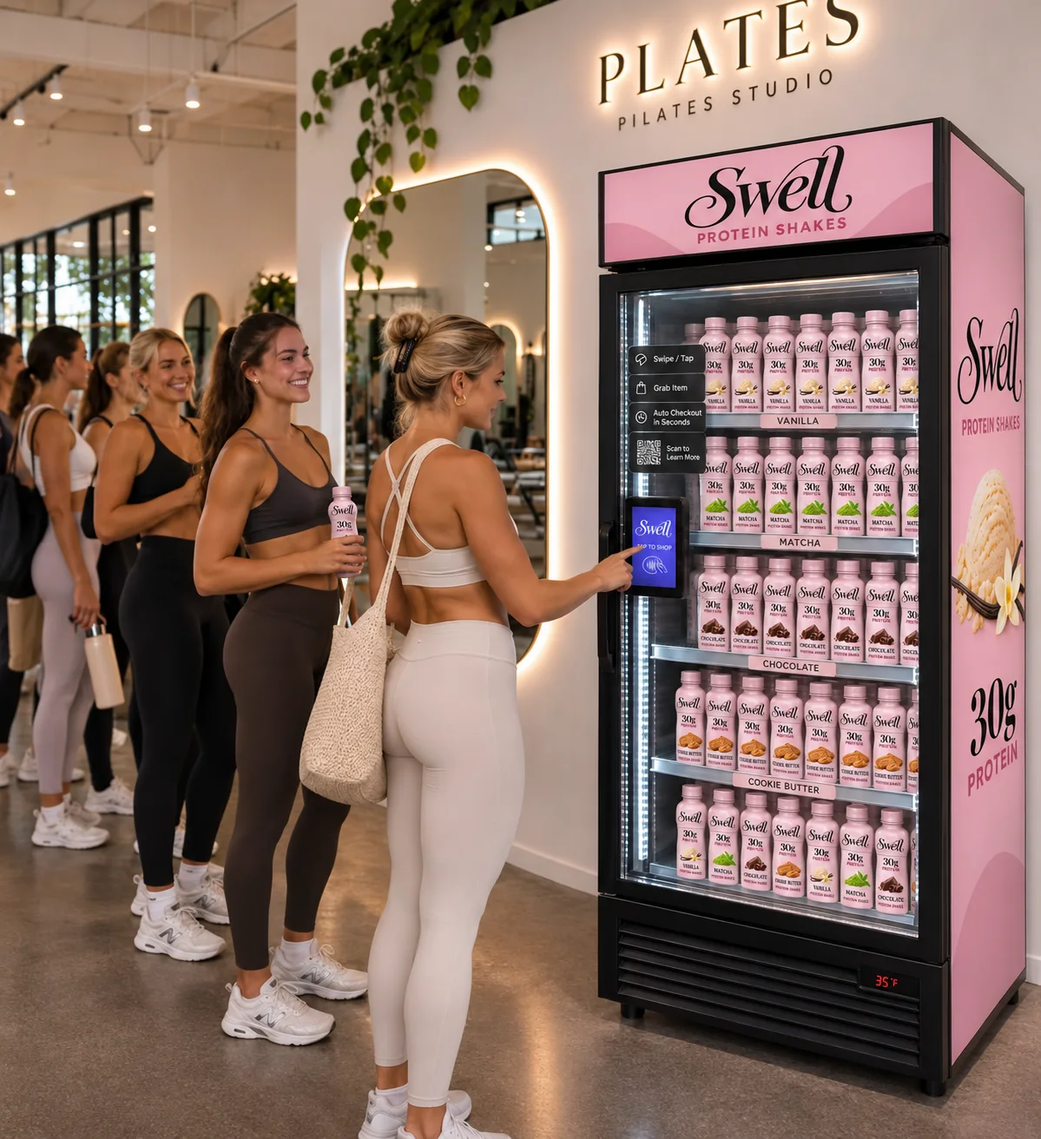
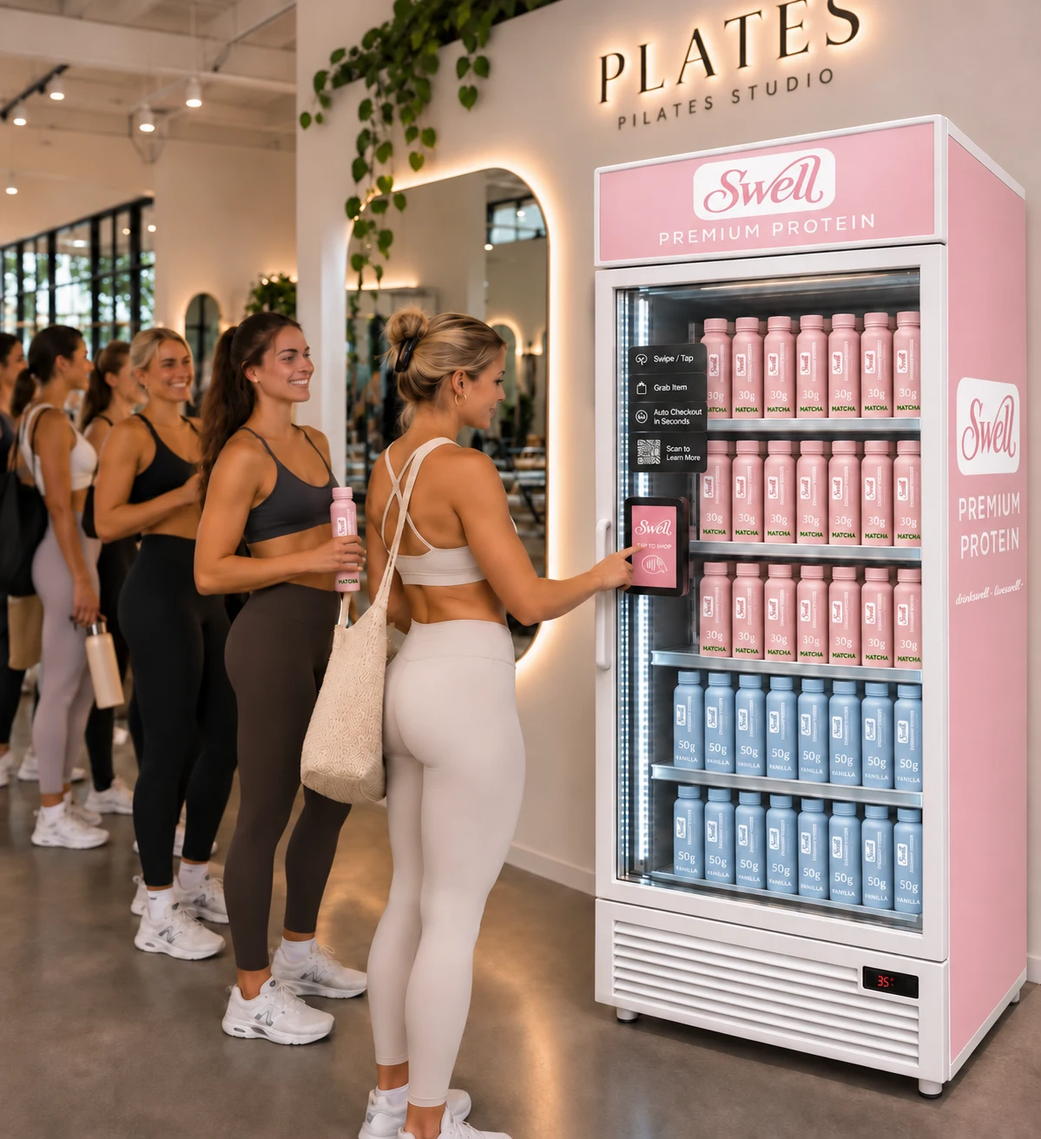
Refresh Swell blog photos and Pilates fridge artwork

diff --git a/blog.html b/blog.html
@@ -621,7 +621,7 @@ html.sheet-open, html.sheet-open body { overflow: hidden; }
 .mq-dup { display: contents; }
 .marquee:hover .mq-track, .marquee:focus-within .mq-track { animation-play-state: paused; }
 .mq-track .post { flex: 0 0 var(--cw); width: var(--cw); margin: 0; animation: none; align-self: start; }
-.mq-track .pimg { aspect-ratio: 4 / 5 !important; }
+.mq-track .pimg { aspect-ratio: 2 / 3; }
 @keyframes mq { to { transform: translateX(calc(-50% - var(--gap) / 2)); } }
 @media (max-width: 1100px) { .marquee { --cw: calc((100vw - 2 * var(--gap) - 32px) / 3); } }
 @media (max-width: 760px) { .marquee { --gap: 10px; --cw: calc((100vw - 32px - var(--gap)) / 2); } .mq-track { animation-duration: 110s; }
@@ -953,7 +953,7 @@ img[src$="logo.png"] { filter: brightness(0) invert(1) drop-shadow(0 1px 1px rgb
   <div class="sec-h feedh"><h2>From the feed</h2>
     <div class="filters" role="group" aria-label="Filter posts"><button type="button" class="press" aria-pressed="true" data-pfil="all">All</button><button type="button" class="press" aria-pressed="false" data-pfil="shakes">Shakes</button><button type="button" class="press" aria-pressed="false" data-pfil="icecream">Ice cream</button><button type="button" class="press" aria-pressed="false" data-pfil="creami">Creami</button></div></div>
   <p class="small" style="margin:-6px 0 18px"><span class="ph">Sample posts for layout. Replace with real posts tagged #drinkswell before launch.</span></p>
-  <div class="feed" id="feed"><article class="post" data-pf="shakes"><header class="ph-h"><span class="av" aria-hidden="true"><img src="img/posts/av_ugc_sw_dude_gym.webp" alt="" width="36" height="36" loading="lazy"></span><span class="pwho"><b>@sample.justonemoreset</b><small><svg viewBox="0 0 24 24" width="13" height="13" aria-hidden="true"><rect x="3" y="3" width="18" height="18" rx="5" fill="none" stroke="currentColor" stroke-width="2"/><circle cx="12" cy="12" r="4.2" fill="none" stroke="currentColor" stroke-width="2"/><circle cx="17.4" cy="6.6" r="1.3" fill="currentColor"/></svg> Instagram</small></span><span class="sample">Sample post</span></header><div class="pimg" style="aspect-ratio:4 / 5"><img src="img/posts/ugc_sw_dude_gym.webp" alt="Sample Instagram post: Post-lift, no production crew required. Chocolate Swell 50g and out." loading="lazy" width="720" height="900"></div><div class="pact"><button type="button" class="like press" aria-pressed="false" aria-label="Like this post"><svg viewBox="0 0 24 24" width="24" height="24" aria-hidden="true"><path d="M12 20.5s-7.5-4.4-7.5-10.1A4.3 4.3 0 0 1 12 7.6a4.3 4.3 0 0 1 7.5 2.8c0 5.7-7.5 10.1-7.5 10.1z" fill="var(--hf, none)" stroke="currentColor" stroke-width="2" stroke-linejoin="round"/></svg></button><button type="button" class="share press" aria-label="Share #drinkswell"><svg viewBox="0 0 24 24" width="22" height="22" aria-hidden="true"><path d="M12 15V3.5M7.5 8 12 3.5 16.5 8M5 13v6.5h14V13" fill="none" stroke="currentColor" stroke-width="2" stroke-linecap="round" stroke-linejoin="round"/></svg></button></div><p class="pcap"><b>@sample.justonemoreset</b> Post-lift, no production crew required. Chocolate Swell 50g and out. <span class="ht">@drinkswell #drinkswell #proteinshake</span></p></article><article class="post" data-pf="shakes"><header class="ph-h"><span class="av" aria-hidden="true"><img src="img/posts/av_ugc_sw_dude_campus.webp" alt="" width="36" height="36" loading="lazy"></span><span class="pwho"><b>@sample.campusbulk</b><small><svg viewBox="0 0 24 24" width="13" height="13" aria-hidden="true"><rect x="3" y="3" width="18" height="18" rx="5" fill="none" stroke="currentColor" stroke-width="2"/><circle cx="12" cy="12" r="4.2" fill="none" stroke="currentColor" stroke-width="2"/><circle cx="17.4" cy="6.6" r="1.3" fill="currentColor"/></svg> Instagram</small></span><span class="sample">Sample post</span></header><div class="pimg" style="aspect-ratio:4 / 5"><img src="img/posts/ugc_sw_dude_campus.webp" alt="Sample Instagram post: Two classes, one lab, 50g. Cookie Butter Swell 50g was the obvious move." loading="lazy" width="720" height="900"></div><div class="pact"><button type="button" class="like press" aria-pressed="false" aria-label="Like this post"><svg viewBox="0 0 24 24" width="24" height="24" aria-hidden="true"><path d="M12 20.5s-7.5-4.4-7.5-10.1A4.3 4.3 0 0 1 12 7.6a4.3 4.3 0 0 1 7.5 2.8c0 5.7-7.5 10.1-7.5 10.1z" fill="var(--hf, none)" stroke="currentColor" stroke-width="2" stroke-linejoin="round"/></svg></button><button type="button" class="share press" aria-label="Share #drinkswell"><svg viewBox="0 0 24 24" width="22" height="22" aria-hidden="true"><path d="M12 15V3.5M7.5 8 12 3.5 16.5 8M5 13v6.5h14V13" fill="none" stroke="currentColor" stroke-width="2" stroke-linecap="round" stroke-linejoin="round"/></svg></button></div><p class="pcap"><b>@sample.campusbulk</b> Two classes, one lab, 50g. Cookie Butter Swell 50g was the obvious move. <span class="ht">@drinkswell #drinkswell #proteinshake</span></p></article><article class="post" data-pf="icecream shakes"><header class="ph-h"><span class="av" aria-hidden="true"><img src="img/posts/av_ugc_ic_car.webp" alt="" width="36" height="36" loading="lazy"></span><span class="pwho"><b>@sample.postlift</b><small><svg viewBox="0 0 24 24" width="13" height="13" aria-hidden="true"><rect x="3" y="3" width="18" height="18" rx="5" fill="none" stroke="currentColor" stroke-width="2"/><circle cx="12" cy="12" r="4.2" fill="none" stroke="currentColor" stroke-width="2"/><circle cx="17.4" cy="6.6" r="1.3" fill="currentColor"/></svg> Instagram</small></span><span class="sample">Sample post</span></header><div class="pimg" style="aspect-ratio:4 / 5"><img src="img/posts/ugc_ic_car.webp" alt="Sample Instagram post: Gym, then the parking lot pint. Chocolate protein ice cream hits different after leg day." loading="lazy" width="720" height="900"></div><div class="pact"><button type="button" class="like press" aria-pressed="false" aria-label="Like this post"><svg viewBox="0 0 24 24" width="24" height="24" aria-hidden="true"><path d="M12 20.5s-7.5-4.4-7.5-10.1A4.3 4.3 0 0 1 12 7.6a4.3 4.3 0 0 1 7.5 2.8c0 5.7-7.5 10.1-7.5 10.1z" fill="var(--hf, none)" stroke="currentColor" stroke-width="2" stroke-linejoin="round"/></svg></button><button type="button" class="share press" aria-label="Share #drinkswell"><svg viewBox="0 0 24 24" width="22" height="22" aria-hidden="true"><path d="M12 15V3.5M7.5 8 12 3.5 16.5 8M5 13v6.5h14V13" fill="none" stroke="currentColor" stroke-width="2" stroke-linecap="round" stroke-linejoin="round"/></svg></button></div><p class="pcap"><b>@sample.postlift</b> Gym, then the parking lot pint. Chocolate protein ice cream hits different after leg day. <span class="ht">@drinkswell #drinkswell #proteinicecream</span></p></article><article class="post" data-pf="icecream shakes"><header class="ph-h"><span class="av" aria-hidden="true"><img src="img/posts/av_ugc_ic_couch.webp" alt="" width="36" height="36" loading="lazy"></span><span class="pwho"><b>@sample.movienight</b><small><svg viewBox="0 0 24 24" width="13" height="13" aria-hidden="true"><path d="M14.5 3v11.2a3.6 3.6 0 1 1-3.6-3.6" fill="none" stroke="currentColor" stroke-width="2.2" stroke-linecap="round"/><path d="M14.5 3c.4 2.6 2.2 4.4 5 4.6" fill="none" stroke="currentColor" stroke-width="2.2" stroke-linecap="round"/></svg> TikTok</small></span><span class="sample">Sample post</span></header><div class="pimg" style="aspect-ratio:4 / 5"><img src="img/posts/ugc_ic_couch.webp" alt="Sample TikTok post: Three spoons, one pint of Cookie Butter, zero regrets. Movie night is protein night now." loading="lazy" width="720" height="900"></div><div class="pact"><button type="button" class="like press" aria-pressed="false" aria-label="Like this post"><svg viewBox="0 0 24 24" width="24" height="24" aria-hidden="true"><path d="M12 20.5s-7.5-4.4-7.5-10.1A4.3 4.3 0 0 1 12 7.6a4.3 4.3 0 0 1 7.5 2.8c0 5.7-7.5 10.1-7.5 10.1z" fill="var(--hf, none)" stroke="currentColor" stroke-width="2" stroke-linejoin="round"/></svg></button><button type="button" class="share press" aria-label="Share #drinkswell"><svg viewBox="0 0 24 24" width="22" height="22" aria-hidden="true"><path d="M12 15V3.5M7.5 8 12 3.5 16.5 8M5 13v6.5h14V13" fill="none" stroke="currentColor" stroke-width="2" stroke-linecap="round" stroke-linejoin="round"/></svg></button></div><p class="pcap"><b>@sample.movienight</b> Three spoons, one pint of Cookie Butter, zero regrets. Movie night is protein night now. <span class="ht">@drinkswell #drinkswell #proteinicecream</span></p></article><article class="post" data-pf="icecream shakes"><header class="ph-h"><span class="av" aria-hidden="true"><img src="img/posts/av_ugc_ic_dorm.webp" alt="" width="36" height="36" loading="lazy"></span><span class="pwho"><b>@sample.studyhall</b><small><svg viewBox="0 0 24 24" width="13" height="13" aria-hidden="true"><rect x="3" y="3" width="18" height="18" rx="5" fill="none" stroke="currentColor" stroke-width="2"/><circle cx="12" cy="12" r="4.2" fill="none" stroke="currentColor" stroke-width="2"/><circle cx="17.4" cy="6.6" r="1.3" fill="currentColor"/></svg> Instagram</small></span><span class="sample">Sample post</span></header><div class="pimg" style="aspect-ratio:4 / 5"><img src="img/posts/ugc_ic_dorm.webp" alt="Sample Instagram post: Finals fuel: Cookie Butter protein ice cream in bed with my notes." loading="lazy" width="720" height="900"></div><div class="pact"><button type="button" class="like press" aria-pressed="false" aria-label="Like this post"><svg viewBox="0 0 24 24" width="24" height="24" aria-hidden="true"><path d="M12 20.5s-7.5-4.4-7.5-10.1A4.3 4.3 0 0 1 12 7.6a4.3 4.3 0 0 1 7.5 2.8c0 5.7-7.5 10.1-7.5 10.1z" fill="var(--hf, none)" stroke="currentColor" stroke-width="2" stroke-linejoin="round"/></svg></button><button type="button" class="share press" aria-label="Share #drinkswell"><svg viewBox="0 0 24 24" width="22" height="22" aria-hidden="true"><path d="M12 15V3.5M7.5 8 12 3.5 16.5 8M5 13v6.5h14V13" fill="none" stroke="currentColor" stroke-width="2" stroke-linecap="round" stroke-linejoin="round"/></svg></button></div><p class="pcap"><b>@sample.studyhall</b> Finals fuel: Cookie Butter protein ice cream in bed with my notes. <span class="ht">@drinkswell #drinkswell #proteinicecream</span></p></article><article class="post" data-pf="icecream shakes"><header class="ph-h"><span class="av" aria-hidden="true"><img src="img/posts/av_ugc_ic_vanilla.webp" alt="" width="36" height="36" loading="lazy"></span><span class="pwho"><b>@sample.sundaebar</b><small><svg viewBox="0 0 24 24" width="13" height="13" aria-hidden="true"><path d="M14.5 3v11.2a3.6 3.6 0 1 1-3.6-3.6" fill="none" stroke="currentColor" stroke-width="2.2" stroke-linecap="round"/><path d="M14.5 3c.4 2.6 2.2 4.4 5 4.6" fill="none" stroke="currentColor" stroke-width="2.2" stroke-linecap="round"/></svg> TikTok</small></span><span class="sample">Sample post</span></header><div class="pimg" style="aspect-ratio:4 / 5"><img src="img/posts/ugc_ic_vanilla.webp" alt="Sample TikTok post: Build-your-own sundae night with Vanilla protein ice cream. Toppings optional, protein included." loading="lazy" width="720" height="900"></div><div class="pact"><button type="button" class="like press" aria-pressed="false" aria-label="Like this post"><svg viewBox="0 0 24 24" width="24" height="24" aria-hidden="true"><path d="M12 20.5s-7.5-4.4-7.5-10.1A4.3 4.3 0 0 1 12 7.6a4.3 4.3 0 0 1 7.5 2.8c0 5.7-7.5 10.1-7.5 10.1z" fill="var(--hf, none)" stroke="currentColor" stroke-width="2" stroke-linejoin="round"/></svg></button><button type="button" class="share press" aria-label="Share #drinkswell"><svg viewBox="0 0 24 24" width="22" height="22" aria-hidden="true"><path d="M12 15V3.5M7.5 8 12 3.5 16.5 8M5 13v6.5h14V13" fill="none" stroke="currentColor" stroke-width="2" stroke-linecap="round" stroke-linejoin="round"/></svg></button></div><p class="pcap"><b>@sample.sundaebar</b> Build-your-own sundae night with Vanilla protein ice cream. Toppings optional, protein included. <span class="ht">@drinkswell #drinkswell #proteinicecream</span></p></article><article class="post" data-pf="shakes"><header class="ph-h"><span class="av" aria-hidden="true"><img src="img/posts/av_ugc_swoll_gym.webp" alt="" width="36" height="36" loading="lazy"></span><span class="pwho"><b>@sample.gymrat</b><small><svg viewBox="0 0 24 24" width="13" height="13" aria-hidden="true"><rect x="3" y="3" width="18" height="18" rx="5" fill="none" stroke="currentColor" stroke-width="2"/><circle cx="12" cy="12" r="4.2" fill="none" stroke="currentColor" stroke-width="2"/><circle cx="17.4" cy="6.6" r="1.3" fill="currentColor"/></svg> Instagram</small></span><span class="sample">Sample post</span></header><div class="pimg" style="aspect-ratio:4 / 5"><img src="img/posts/ugc_swoll_gym.webp" alt="Sample Instagram post: Leg day done. Grabbed the big one. 50g and it still tastes like a milkshake." loading="lazy" width="720" height="900"></div><div class="pact"><button type="button" class="like press" aria-pressed="false" aria-label="Like this post"><svg viewBox="0 0 24 24" width="24" height="24" aria-hidden="true"><path d="M12 20.5s-7.5-4.4-7.5-10.1A4.3 4.3 0 0 1 12 7.6a4.3 4.3 0 0 1 7.5 2.8c0 5.7-7.5 10.1-7.5 10.1z" fill="var(--hf, none)" stroke="currentColor" stroke-width="2" stroke-linejoin="round"/></svg></button><button type="button" class="share press" aria-label="Share #drinkswell"><svg viewBox="0 0 24 24" width="22" height="22" aria-hidden="true"><path d="M12 15V3.5M7.5 8 12 3.5 16.5 8M5 13v6.5h14V13" fill="none" stroke="currentColor" stroke-width="2" stroke-linecap="round" stroke-linejoin="round"/></svg></button></div><p class="pcap"><b>@sample.gymrat</b> Leg day done. Grabbed the big one. 50g and it still tastes like a milkshake. <span class="ht">@drinkswell #drinkswell #proteinshake</span></p></article><article class="post" data-pf="creami shakes"><header class="ph-h"><span class="av" aria-hidden="true"><img src="img/posts/av_ugc_creami.webp" alt="" width="36" height="36" loading="lazy"></span><span class="pwho"><b>@sample.creamiqueen</b><small><svg viewBox="0 0 24 24" width="13" height="13" aria-hidden="true"><path d="M14.5 3v11.2a3.6 3.6 0 1 1-3.6-3.6" fill="none" stroke="currentColor" stroke-width="2.2" stroke-linecap="round"/><path d="M14.5 3c.4 2.6 2.2 4.4 5 4.6" fill="none" stroke="currentColor" stroke-width="2.2" stroke-linecap="round"/></svg> TikTok</small></span><span class="sample">Sample post</span></header><div class="pimg" style="aspect-ratio:4 / 5"><img src="img/posts/ugc_creami.webp" alt="Sample TikTok post: Creami night. One bottle of Cookie Butter, 24 hours in the freezer, one spin. Zero blending." loading="lazy" width="720" height="900"></div><div class="pact"><button type="button" class="like press" aria-pressed="false" aria-label="Like this post"><svg viewBox="0 0 24 24" width="24" height="24" aria-hidden="true"><path d="M12 20.5s-7.5-4.4-7.5-10.1A4.3 4.3 0 0 1 12 7.6a4.3 4.3 0 0 1 7.5 2.8c0 5.7-7.5 10.1-7.5 10.1z" fill="var(--hf, none)" stroke="currentColor" stroke-width="2" stroke-linejoin="round"/></svg></button><button type="button" class="share press" aria-label="Share #drinkswell"><svg viewBox="0 0 24 24" width="22" height="22" aria-hidden="true"><path d="M12 15V3.5M7.5 8 12 3.5 16.5 8M5 13v6.5h14V13" fill="none" stroke="currentColor" stroke-width="2" stroke-linecap="round" stroke-linejoin="round"/></svg></button></div><p class="pcap"><b>@sample.creamiqueen</b> Creami night. One bottle of Cookie Butter, 24 hours in the freezer, one spin. Zero blending. <span class="ht">@drinkswell #drinkswell #ninjacreami</span></p></article><article class="post" data-pf="shakes"><header class="ph-h"><span class="av" aria-hidden="true"><img src="img/posts/av_ugc_hike.webp" alt="" width="36" height="36" loading="lazy"></span><span class="pwho"><b>@sample.trailmix</b><small><svg viewBox="0 0 24 24" width="13" height="13" aria-hidden="true"><rect x="3" y="3" width="18" height="18" rx="5" fill="none" stroke="currentColor" stroke-width="2"/><circle cx="12" cy="12" r="4.2" fill="none" stroke="currentColor" stroke-width="2"/><circle cx="17.4" cy="6.6" r="1.3" fill="currentColor"/></svg> Instagram</small></span><span class="sample">Sample post</span></header><div class="pimg" style="aspect-ratio:4 / 5"><img src="img/posts/ugc_hike.webp" alt="Sample Instagram post: Summit snack. Swell 50g made it to the top, so we did too." loading="lazy" width="720" height="900"></div><div class="pact"><button type="button" class="like press" aria-pressed="false" aria-label="Like this post"><svg viewBox="0 0 24 24" width="24" height="24" aria-hidden="true"><path d="M12 20.5s-7.5-4.4-7.5-10.1A4.3 4.3 0 0 1 12 7.6a4.3 4.3 0 0 1 7.5 2.8c0 5.7-7.5 10.1-7.5 10.1z" fill="var(--hf, none)" stroke="currentColor" stroke-width="2" stroke-linejoin="round"/></svg></button><button type="button" class="share press" aria-label="Share #drinkswell"><svg viewBox="0 0 24 24" width="22" height="22" aria-hidden="true"><path d="M12 15V3.5M7.5 8 12 3.5 16.5 8M5 13v6.5h14V13" fill="none" stroke="currentColor" stroke-width="2" stroke-linecap="round" stroke-linejoin="round"/></svg></button></div><p class="pcap"><b>@sample.trailmix</b> Summit snack. Swell 50g made it to the top, so we did too. <span class="ht">@drinkswell #drinkswell #proteinshake</span></p></article><article class="post" data-pf="shakes"><header class="ph-h"><span class="av" aria-hidden="true">M</span><span class="pwho"><b>@sample.matchamorning</b><small><svg viewBox="0 0 24 24" width="13" height="13" aria-hidden="true"><rect x="3" y="3" width="18" height="18" rx="5" fill="none" stroke="currentColor" stroke-width="2"/><circle cx="12" cy="12" r="4.2" fill="none" stroke="currentColor" stroke-width="2"/><circle cx="17.4" cy="6.6" r="1.3" fill="currentColor"/></svg> Instagram</small></span><span class="sample">Sample post</span></header><div class="pimg" style="aspect-ratio:1 / 1"><img src="img/posts/matcha.webp" alt="Sample Instagram post: My coffee-shop matcha, but with 30g protein. Same order, better morning." loading="lazy" width="720" height="900"></div><div class="pact"><button type="button" class="like press" aria-pressed="false" aria-label="Like this post"><svg viewBox="0 0 24 24" width="24" height="24" aria-hidden="true"><path d="M12 20.5s-7.5-4.4-7.5-10.1A4.3 4.3 0 0 1 12 7.6a4.3 4.3 0 0 1 7.5 2.8c0 5.7-7.5 10.1-7.5 10.1z" fill="var(--hf, none)" stroke="currentColor" stroke-width="2" stroke-linejoin="round"/></svg></button><button type="button" class="share press" aria-label="Share #drinkswell"><svg viewBox="0 0 24 24" width="22" height="22" aria-hidden="true"><path d="M12 15V3.5M7.5 8 12 3.5 16.5 8M5 13v6.5h14V13" fill="none" stroke="currentColor" stroke-width="2" stroke-linecap="round" stroke-linejoin="round"/></svg></button></div><p class="pcap"><b>@sample.matchamorning</b> My coffee-shop matcha, but with 30g protein. Same order, better morning. <span class="ht">@drinkswell #drinkswell #proteinshake</span></p></article><article class="post" data-pf="shakes"><header class="ph-h"><span class="av" aria-hidden="true"><img src="img/posts/av_ugc_locker.webp" alt="" width="36" height="36" loading="lazy"></span><span class="pwho"><b>@sample.lockerroom</b><small><svg viewBox="0 0 24 24" width="13" height="13" aria-hidden="true"><rect x="3" y="3" width="18" height="18" rx="5" fill="none" stroke="currentColor" stroke-width="2"/><circle cx="12" cy="12" r="4.2" fill="none" stroke="currentColor" stroke-width="2"/><circle cx="17.4" cy="6.6" r="1.3" fill="currentColor"/></svg> Instagram</small></span><span class="sample">Sample post</span></header><div class="pimg" style="aspect-ratio:4 / 5"><img src="img/posts/ugc_locker.webp" alt="Sample Instagram post: Post-Pilates routine: shower, Swell, home. Tastes like a vanilla milkshake." loading="lazy" width="720" height="900"></div><div class="pact"><button type="button" class="like press" aria-pressed="false" aria-label="Like this post"><svg viewBox="0 0 24 24" width="24" height="24" aria-hidden="true"><path d="M12 20.5s-7.5-4.4-7.5-10.1A4.3 4.3 0 0 1 12 7.6a4.3 4.3 0 0 1 7.5 2.8c0 5.7-7.5 10.1-7.5 10.1z" fill="var(--hf, none)" stroke="currentColor" stroke-width="2" stroke-linejoin="round"/></svg></button><button type="button" class="share press" aria-label="Share #drinkswell"><svg viewBox="0 0 24 24" width="22" height="22" aria-hidden="true"><path d="M12 15V3.5M7.5 8 12 3.5 16.5 8M5 13v6.5h14V13" fill="none" stroke="currentColor" stroke-width="2" stroke-linecap="round" stroke-linejoin="round"/></svg></button></div><p class="pcap"><b>@sample.lockerroom</b> Post-Pilates routine: shower, <span class="swl"><span>Swell</span></span>, home. Tastes like a vanilla milkshake. <span class="ht">@drinkswell #drinkswell #proteinshake</span></p></article></div>
+  <div class="feed" id="feed"><article class="post" data-pf="shakes"><header class="ph-h"><span class="av" aria-hidden="true"><img src="img/posts/av_ugc_sw_dude_gym.webp" alt="" width="36" height="36" loading="lazy"></span><span class="pwho"><b>@sample.justonemoreset</b><small><svg viewBox="0 0 24 24" width="13" height="13" aria-hidden="true"><rect x="3" y="3" width="18" height="18" rx="5" fill="none" stroke="currentColor" stroke-width="2"/><circle cx="12" cy="12" r="4.2" fill="none" stroke="currentColor" stroke-width="2"/><circle cx="17.4" cy="6.6" r="1.3" fill="currentColor"/></svg> Instagram</small></span><span class="sample">Sample post</span></header><div class="pimg" style="aspect-ratio:2 / 3"><img src="img/posts/swell-blue-50g-chocolate.webp" alt="Blue Swell Chocolate 50g protein shake" loading="lazy" width="800" height="1200"></div><div class="pact"><button type="button" class="like press" aria-pressed="false" aria-label="Like this post"><svg viewBox="0 0 24 24" width="24" height="24" aria-hidden="true"><path d="M12 20.5s-7.5-4.4-7.5-10.1A4.3 4.3 0 0 1 12 7.6a4.3 4.3 0 0 1 7.5 2.8c0 5.7-7.5 10.1-7.5 10.1z" fill="var(--hf, none)" stroke="currentColor" stroke-width="2" stroke-linejoin="round"/></svg></button><button type="button" class="share press" aria-label="Share #drinkswell"><svg viewBox="0 0 24 24" width="22" height="22" aria-hidden="true"><path d="M12 15V3.5M7.5 8 12 3.5 16.5 8M5 13v6.5h14V13" fill="none" stroke="currentColor" stroke-width="2" stroke-linecap="round" stroke-linejoin="round"/></svg></button></div><p class="pcap"><b>@sample.justonemoreset</b> Post-lift, no production crew required. Chocolate Swell and out. <span class="ht">@drinkswell #drinkswell #proteinshake</span></p></article><article class="post" data-pf="shakes"><header class="ph-h"><span class="av" aria-hidden="true"><img src="img/posts/av_ugc_sw_dude_campus.webp" alt="" width="36" height="36" loading="lazy"></span><span class="pwho"><b>@sample.campusbulk</b><small><svg viewBox="0 0 24 24" width="13" height="13" aria-hidden="true"><rect x="3" y="3" width="18" height="18" rx="5" fill="none" stroke="currentColor" stroke-width="2"/><circle cx="12" cy="12" r="4.2" fill="none" stroke="currentColor" stroke-width="2"/><circle cx="17.4" cy="6.6" r="1.3" fill="currentColor"/></svg> Instagram</small></span><span class="sample">Sample post</span></header><div class="pimg" style="aspect-ratio:2 / 3"><img src="img/posts/swell-blue-50g-cookie-butter.webp" alt="Blue Swell Cookie Butter 50g protein shake" loading="lazy" width="800" height="1200"></div><div class="pact"><button type="button" class="like press" aria-pressed="false" aria-label="Like this post"><svg viewBox="0 0 24 24" width="24" height="24" aria-hidden="true"><path d="M12 20.5s-7.5-4.4-7.5-10.1A4.3 4.3 0 0 1 12 7.6a4.3 4.3 0 0 1 7.5 2.8c0 5.7-7.5 10.1-7.5 10.1z" fill="var(--hf, none)" stroke="currentColor" stroke-width="2" stroke-linejoin="round"/></svg></button><button type="button" class="share press" aria-label="Share #drinkswell"><svg viewBox="0 0 24 24" width="22" height="22" aria-hidden="true"><path d="M12 15V3.5M7.5 8 12 3.5 16.5 8M5 13v6.5h14V13" fill="none" stroke="currentColor" stroke-width="2" stroke-linecap="round" stroke-linejoin="round"/></svg></button></div><p class="pcap"><b>@sample.campusbulk</b> Two classes, one lab, 50g. Cookie Butter Swell was the obvious move. <span class="ht">@drinkswell #drinkswell #proteinshake</span></p></article><article class="post" data-pf="icecream shakes"><header class="ph-h"><span class="av" aria-hidden="true"><img src="img/posts/av_ugc_ic_car.webp" alt="" width="36" height="36" loading="lazy"></span><span class="pwho"><b>@sample.postlift</b><small><svg viewBox="0 0 24 24" width="13" height="13" aria-hidden="true"><rect x="3" y="3" width="18" height="18" rx="5" fill="none" stroke="currentColor" stroke-width="2"/><circle cx="12" cy="12" r="4.2" fill="none" stroke="currentColor" stroke-width="2"/><circle cx="17.4" cy="6.6" r="1.3" fill="currentColor"/></svg> Instagram</small></span><span class="sample">Sample post</span></header><div class="pimg" style="aspect-ratio:2 / 3"><img src="img/posts/swell-pink-30g-chocolate.webp" alt="Pink Swell Chocolate 30g protein shake" loading="lazy" width="800" height="1200"></div><div class="pact"><button type="button" class="like press" aria-pressed="false" aria-label="Like this post"><svg viewBox="0 0 24 24" width="24" height="24" aria-hidden="true"><path d="M12 20.5s-7.5-4.4-7.5-10.1A4.3 4.3 0 0 1 12 7.6a4.3 4.3 0 0 1 7.5 2.8c0 5.7-7.5 10.1-7.5 10.1z" fill="var(--hf, none)" stroke="currentColor" stroke-width="2" stroke-linejoin="round"/></svg></button><button type="button" class="share press" aria-label="Share #drinkswell"><svg viewBox="0 0 24 24" width="22" height="22" aria-hidden="true"><path d="M12 15V3.5M7.5 8 12 3.5 16.5 8M5 13v6.5h14V13" fill="none" stroke="currentColor" stroke-width="2" stroke-linecap="round" stroke-linejoin="round"/></svg></button></div><p class="pcap"><b>@sample.postlift</b> Gym, then a Chocolate Swell in the parking lot. <span class="ht">@drinkswell #drinkswell #proteinicecream</span></p></article><article class="post" data-pf="icecream shakes"><header class="ph-h"><span class="av" aria-hidden="true"><img src="img/posts/av_ugc_ic_couch.webp" alt="" width="36" height="36" loading="lazy"></span><span class="pwho"><b>@sample.movienight</b><small><svg viewBox="0 0 24 24" width="13" height="13" aria-hidden="true"><path d="M14.5 3v11.2a3.6 3.6 0 1 1-3.6-3.6" fill="none" stroke="currentColor" stroke-width="2.2" stroke-linecap="round"/><path d="M14.5 3c.4 2.6 2.2 4.4 5 4.6" fill="none" stroke="currentColor" stroke-width="2.2" stroke-linecap="round"/></svg> TikTok</small></span><span class="sample">Sample post</span></header><div class="pimg" style="aspect-ratio:2 / 3"><img src="img/posts/swell-blue-50g-vanilla.webp" alt="Blue Swell Vanilla 50g protein shake" loading="lazy" width="800" height="1200"></div><div class="pact"><button type="button" class="like press" aria-pressed="false" aria-label="Like this post"><svg viewBox="0 0 24 24" width="24" height="24" aria-hidden="true"><path d="M12 20.5s-7.5-4.4-7.5-10.1A4.3 4.3 0 0 1 12 7.6a4.3 4.3 0 0 1 7.5 2.8c0 5.7-7.5 10.1-7.5 10.1z" fill="var(--hf, none)" stroke="currentColor" stroke-width="2" stroke-linejoin="round"/></svg></button><button type="button" class="share press" aria-label="Share #drinkswell"><svg viewBox="0 0 24 24" width="22" height="22" aria-hidden="true"><path d="M12 15V3.5M7.5 8 12 3.5 16.5 8M5 13v6.5h14V13" fill="none" stroke="currentColor" stroke-width="2" stroke-linecap="round" stroke-linejoin="round"/></svg></button></div><p class="pcap"><b>@sample.movienight</b> Movie night with a Vanilla Swell. <span class="ht">@drinkswell #drinkswell #proteinicecream</span></p></article><article class="post" data-pf="icecream shakes"><header class="ph-h"><span class="av" aria-hidden="true"><img src="img/posts/av_ugc_ic_dorm.webp" alt="" width="36" height="36" loading="lazy"></span><span class="pwho"><b>@sample.studyhall</b><small><svg viewBox="0 0 24 24" width="13" height="13" aria-hidden="true"><rect x="3" y="3" width="18" height="18" rx="5" fill="none" stroke="currentColor" stroke-width="2"/><circle cx="12" cy="12" r="4.2" fill="none" stroke="currentColor" stroke-width="2"/><circle cx="17.4" cy="6.6" r="1.3" fill="currentColor"/></svg> Instagram</small></span><span class="sample">Sample post</span></header><div class="pimg" style="aspect-ratio:2 / 3"><img src="img/posts/swell-pink-30g-cookie-butter.webp" alt="Pink Swell Cookie Butter 30g protein shake" loading="lazy" width="800" height="1200"></div><div class="pact"><button type="button" class="like press" aria-pressed="false" aria-label="Like this post"><svg viewBox="0 0 24 24" width="24" height="24" aria-hidden="true"><path d="M12 20.5s-7.5-4.4-7.5-10.1A4.3 4.3 0 0 1 12 7.6a4.3 4.3 0 0 1 7.5 2.8c0 5.7-7.5 10.1-7.5 10.1z" fill="var(--hf, none)" stroke="currentColor" stroke-width="2" stroke-linejoin="round"/></svg></button><button type="button" class="share press" aria-label="Share #drinkswell"><svg viewBox="0 0 24 24" width="22" height="22" aria-hidden="true"><path d="M12 15V3.5M7.5 8 12 3.5 16.5 8M5 13v6.5h14V13" fill="none" stroke="currentColor" stroke-width="2" stroke-linecap="round" stroke-linejoin="round"/></svg></button></div><p class="pcap"><b>@sample.studyhall</b> Finals fuel: Cookie Butter Swell and my notes. <span class="ht">@drinkswell #drinkswell #proteinicecream</span></p></article><article class="post" data-pf="icecream shakes"><header class="ph-h"><span class="av" aria-hidden="true"><img src="img/posts/av_ugc_ic_vanilla.webp" alt="" width="36" height="36" loading="lazy"></span><span class="pwho"><b>@sample.sundaebar</b><small><svg viewBox="0 0 24 24" width="13" height="13" aria-hidden="true"><path d="M14.5 3v11.2a3.6 3.6 0 1 1-3.6-3.6" fill="none" stroke="currentColor" stroke-width="2.2" stroke-linecap="round"/><path d="M14.5 3c.4 2.6 2.2 4.4 5 4.6" fill="none" stroke="currentColor" stroke-width="2.2" stroke-linecap="round"/></svg> TikTok</small></span><span class="sample">Sample post</span></header><div class="pimg" style="aspect-ratio:2 / 3"><img src="img/posts/swell-pink-30g-vanilla.webp" alt="Pink Swell Vanilla 30g protein shake" loading="lazy" width="800" height="1200"></div><div class="pact"><button type="button" class="like press" aria-pressed="false" aria-label="Like this post"><svg viewBox="0 0 24 24" width="24" height="24" aria-hidden="true"><path d="M12 20.5s-7.5-4.4-7.5-10.1A4.3 4.3 0 0 1 12 7.6a4.3 4.3 0 0 1 7.5 2.8c0 5.7-7.5 10.1-7.5 10.1z" fill="var(--hf, none)" stroke="currentColor" stroke-width="2" stroke-linejoin="round"/></svg></button><button type="button" class="share press" aria-label="Share #drinkswell"><svg viewBox="0 0 24 24" width="22" height="22" aria-hidden="true"><path d="M12 15V3.5M7.5 8 12 3.5 16.5 8M5 13v6.5h14V13" fill="none" stroke="currentColor" stroke-width="2" stroke-linecap="round" stroke-linejoin="round"/></svg></button></div><p class="pcap"><b>@sample.sundaebar</b> Vanilla Swell for sundae night. <span class="ht">@drinkswell #drinkswell #proteinicecream</span></p></article><article class="post" data-pf="shakes"><header class="ph-h"><span class="av" aria-hidden="true"><img src="img/posts/av_ugc_swoll_gym.webp" alt="" width="36" height="36" loading="lazy"></span><span class="pwho"><b>@sample.gymrat</b><small><svg viewBox="0 0 24 24" width="13" height="13" aria-hidden="true"><rect x="3" y="3" width="18" height="18" rx="5" fill="none" stroke="currentColor" stroke-width="2"/><circle cx="12" cy="12" r="4.2" fill="none" stroke="currentColor" stroke-width="2"/><circle cx="17.4" cy="6.6" r="1.3" fill="currentColor"/></svg> Instagram</small></span><span class="sample">Sample post</span></header><div class="pimg" style="aspect-ratio:2 / 3"><img src="img/posts/swell-blue-50g-chocolate.webp" alt="Blue Swell Chocolate 50g protein shake" loading="lazy" width="800" height="1200"></div><div class="pact"><button type="button" class="like press" aria-pressed="false" aria-label="Like this post"><svg viewBox="0 0 24 24" width="24" height="24" aria-hidden="true"><path d="M12 20.5s-7.5-4.4-7.5-10.1A4.3 4.3 0 0 1 12 7.6a4.3 4.3 0 0 1 7.5 2.8c0 5.7-7.5 10.1-7.5 10.1z" fill="var(--hf, none)" stroke="currentColor" stroke-width="2" stroke-linejoin="round"/></svg></button><button type="button" class="share press" aria-label="Share #drinkswell"><svg viewBox="0 0 24 24" width="22" height="22" aria-hidden="true"><path d="M12 15V3.5M7.5 8 12 3.5 16.5 8M5 13v6.5h14V13" fill="none" stroke="currentColor" stroke-width="2" stroke-linecap="round" stroke-linejoin="round"/></svg></button></div><p class="pcap"><b>@sample.gymrat</b> Leg day done. Grabbed the big one. 50g and it still tastes like a milkshake. <span class="ht">@drinkswell #drinkswell #proteinshake</span></p></article><article class="post" data-pf="creami shakes"><header class="ph-h"><span class="av" aria-hidden="true"><img src="img/posts/av_ugc_creami.webp" alt="" width="36" height="36" loading="lazy"></span><span class="pwho"><b>@sample.creamiqueen</b><small><svg viewBox="0 0 24 24" width="13" height="13" aria-hidden="true"><path d="M14.5 3v11.2a3.6 3.6 0 1 1-3.6-3.6" fill="none" stroke="currentColor" stroke-width="2.2" stroke-linecap="round"/><path d="M14.5 3c.4 2.6 2.2 4.4 5 4.6" fill="none" stroke="currentColor" stroke-width="2.2" stroke-linecap="round"/></svg> TikTok</small></span><span class="sample">Sample post</span></header><div class="pimg" style="aspect-ratio:2 / 3"><img src="img/posts/swell-pink-30g-vanilla.webp" alt="Pink Swell Vanilla 30g protein shake" loading="lazy" width="800" height="1200"></div><div class="pact"><button type="button" class="like press" aria-pressed="false" aria-label="Like this post"><svg viewBox="0 0 24 24" width="24" height="24" aria-hidden="true"><path d="M12 20.5s-7.5-4.4-7.5-10.1A4.3 4.3 0 0 1 12 7.6a4.3 4.3 0 0 1 7.5 2.8c0 5.7-7.5 10.1-7.5 10.1z" fill="var(--hf, none)" stroke="currentColor" stroke-width="2" stroke-linejoin="round"/></svg></button><button type="button" class="share press" aria-label="Share #drinkswell"><svg viewBox="0 0 24 24" width="22" height="22" aria-hidden="true"><path d="M12 15V3.5M7.5 8 12 3.5 16.5 8M5 13v6.5h14V13" fill="none" stroke="currentColor" stroke-width="2" stroke-linecap="round" stroke-linejoin="round"/></svg></button></div><p class="pcap"><b>@sample.creamiqueen</b> Creami night with Vanilla Swell. <span class="ht">@drinkswell #drinkswell #ninjacreami</span></p></article><article class="post" data-pf="shakes"><header class="ph-h"><span class="av" aria-hidden="true"><img src="img/posts/av_ugc_hike.webp" alt="" width="36" height="36" loading="lazy"></span><span class="pwho"><b>@sample.trailmix</b><small><svg viewBox="0 0 24 24" width="13" height="13" aria-hidden="true"><rect x="3" y="3" width="18" height="18" rx="5" fill="none" stroke="currentColor" stroke-width="2"/><circle cx="12" cy="12" r="4.2" fill="none" stroke="currentColor" stroke-width="2"/><circle cx="17.4" cy="6.6" r="1.3" fill="currentColor"/></svg> Instagram</small></span><span class="sample">Sample post</span></header><div class="pimg" style="aspect-ratio:2 / 3"><img src="img/posts/swell-blue-50g-matcha.webp" alt="Blue Swell Matcha 50g protein shake" loading="lazy" width="800" height="1200"></div><div class="pact"><button type="button" class="like press" aria-pressed="false" aria-label="Like this post"><svg viewBox="0 0 24 24" width="24" height="24" aria-hidden="true"><path d="M12 20.5s-7.5-4.4-7.5-10.1A4.3 4.3 0 0 1 12 7.6a4.3 4.3 0 0 1 7.5 2.8c0 5.7-7.5 10.1-7.5 10.1z" fill="var(--hf, none)" stroke="currentColor" stroke-width="2" stroke-linejoin="round"/></svg></button><button type="button" class="share press" aria-label="Share #drinkswell"><svg viewBox="0 0 24 24" width="22" height="22" aria-hidden="true"><path d="M12 15V3.5M7.5 8 12 3.5 16.5 8M5 13v6.5h14V13" fill="none" stroke="currentColor" stroke-width="2" stroke-linecap="round" stroke-linejoin="round"/></svg></button></div><p class="pcap"><b>@sample.trailmix</b> Summit snack. Matcha Swell made it to the top, so we did too. <span class="ht">@drinkswell #drinkswell #proteinshake</span></p></article><article class="post" data-pf="shakes"><header class="ph-h"><span class="av" aria-hidden="true">M</span><span class="pwho"><b>@sample.matchamorning</b><small><svg viewBox="0 0 24 24" width="13" height="13" aria-hidden="true"><rect x="3" y="3" width="18" height="18" rx="5" fill="none" stroke="currentColor" stroke-width="2"/><circle cx="12" cy="12" r="4.2" fill="none" stroke="currentColor" stroke-width="2"/><circle cx="17.4" cy="6.6" r="1.3" fill="currentColor"/></svg> Instagram</small></span><span class="sample">Sample post</span></header><div class="pimg" style="aspect-ratio:1 / 1"><img src="img/posts/swell-pink-30g-matcha.webp" alt="Pink Swell Matcha 30g protein shake" loading="lazy" width="800" height="1200"></div><div class="pact"><button type="button" class="like press" aria-pressed="false" aria-label="Like this post"><svg viewBox="0 0 24 24" width="24" height="24" aria-hidden="true"><path d="M12 20.5s-7.5-4.4-7.5-10.1A4.3 4.3 0 0 1 12 7.6a4.3 4.3 0 0 1 7.5 2.8c0 5.7-7.5 10.1-7.5 10.1z" fill="var(--hf, none)" stroke="currentColor" stroke-width="2" stroke-linejoin="round"/></svg></button><button type="button" class="share press" aria-label="Share #drinkswell"><svg viewBox="0 0 24 24" width="22" height="22" aria-hidden="true"><path d="M12 15V3.5M7.5 8 12 3.5 16.5 8M5 13v6.5h14V13" fill="none" stroke="currentColor" stroke-width="2" stroke-linecap="round" stroke-linejoin="round"/></svg></button></div><p class="pcap"><b>@sample.matchamorning</b> My coffee-shop matcha, but with 30g protein. Same order, better morning. <span class="ht">@drinkswell #drinkswell #proteinshake</span></p></article><article class="post" data-pf="shakes"><header class="ph-h"><span class="av" aria-hidden="true"><img src="img/posts/av_ugc_locker.webp" alt="" width="36" height="36" loading="lazy"></span><span class="pwho"><b>@sample.lockerroom</b><small><svg viewBox="0 0 24 24" width="13" height="13" aria-hidden="true"><rect x="3" y="3" width="18" height="18" rx="5" fill="none" stroke="currentColor" stroke-width="2"/><circle cx="12" cy="12" r="4.2" fill="none" stroke="currentColor" stroke-width="2"/><circle cx="17.4" cy="6.6" r="1.3" fill="currentColor"/></svg> Instagram</small></span><span class="sample">Sample post</span></header><div class="pimg" style="aspect-ratio:1199 / 1312"><img src="img/fridge_studio.webp" alt="Light pink and white Swell fridge at a Pilates studio, stocked with pink 30g Matcha and blue 50g bottles" loading="lazy" width="1199" height="1312"></div><div class="pact"><button type="button" class="like press" aria-pressed="false" aria-label="Like this post"><svg viewBox="0 0 24 24" width="24" height="24" aria-hidden="true"><path d="M12 20.5s-7.5-4.4-7.5-10.1A4.3 4.3 0 0 1 12 7.6a4.3 4.3 0 0 1 7.5 2.8c0 5.7-7.5 10.1-7.5 10.1z" fill="var(--hf, none)" stroke="currentColor" stroke-width="2" stroke-linejoin="round"/></svg></button><button type="button" class="share press" aria-label="Share #drinkswell"><svg viewBox="0 0 24 24" width="22" height="22" aria-hidden="true"><path d="M12 15V3.5M7.5 8 12 3.5 16.5 8M5 13v6.5h14V13" fill="none" stroke="currentColor" stroke-width="2" stroke-linecap="round" stroke-linejoin="round"/></svg></button></div><p class="pcap"><b>@sample.lockerroom</b> Post-Pilates routine: shower, <span class="swl"><span>Swell</span></span>, home. Tastes like a vanilla milkshake. <span class="ht">@drinkswell #drinkswell #proteinshake</span></p></article></div>
 </div></section>
 <section style="padding-top:0"><div class="wrap"><div class="host tagband">
   <div><h2>Your turn.</h2><p>Tag <b>@drinkswell</b> and use <b>#drinkswell</b>. We repost our favorites every week.</p></div>
